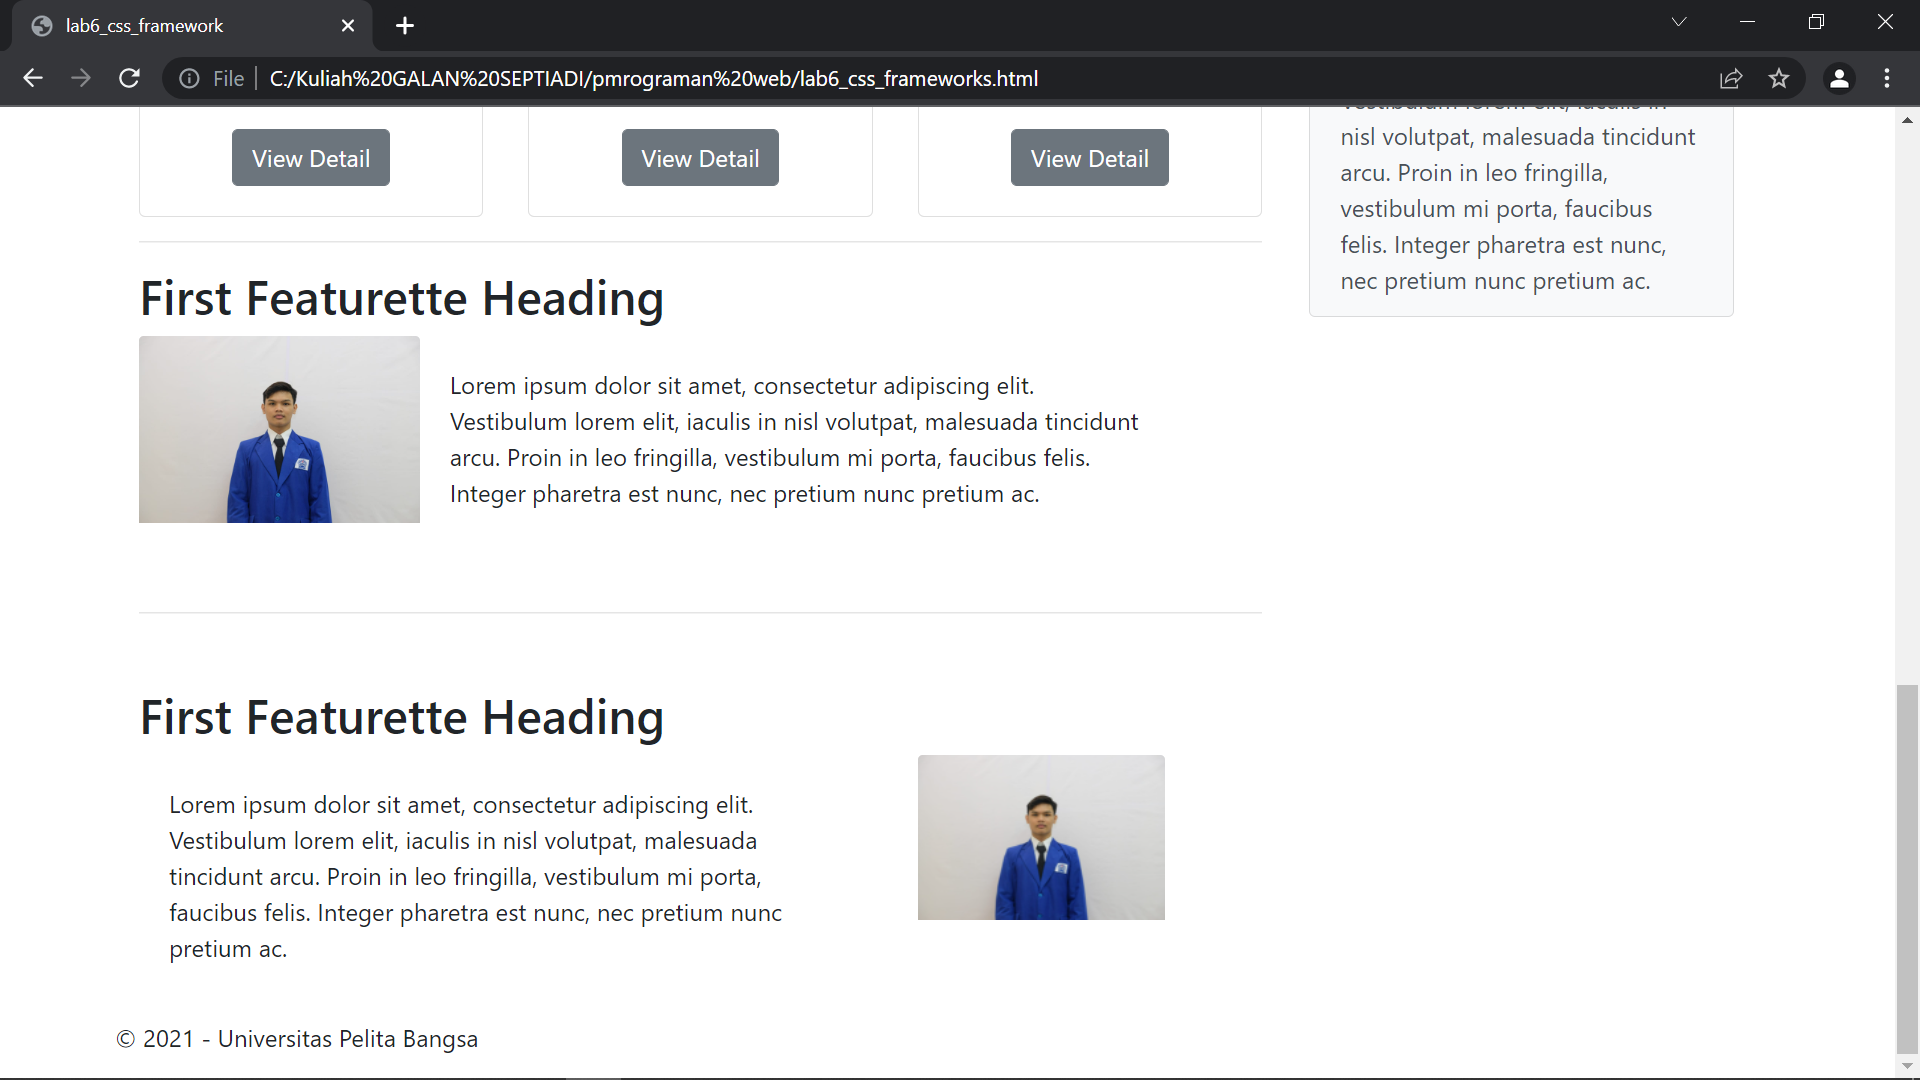
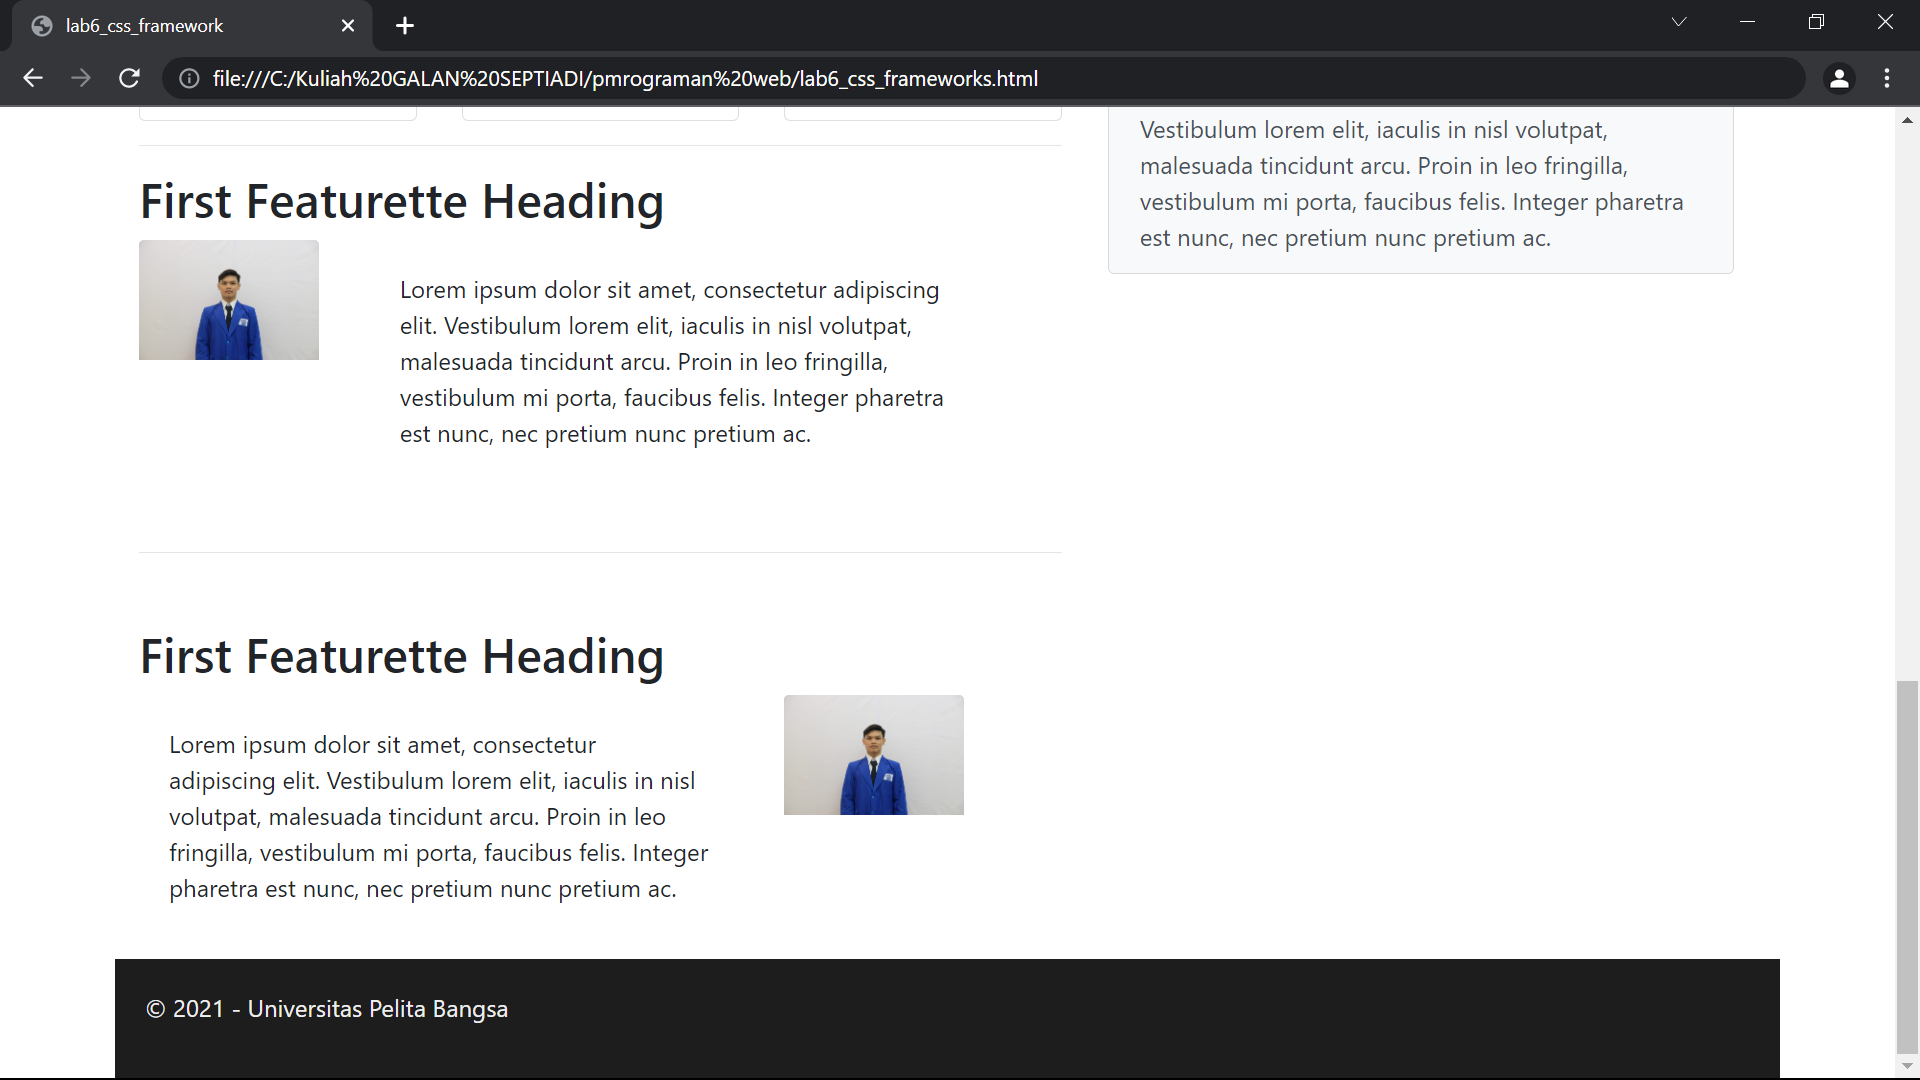
Add files via upload

diff --git a/style.css b/style.css
@@ -1,0 +1,11 @@
+.card-img-top{
+	width: 120px;
+	align-self: center;
+}
+
+footer {
+    clear:both;
+	background-color:#1d1d1d; 
+	padding:20px;
+	color:#eee;
+}
